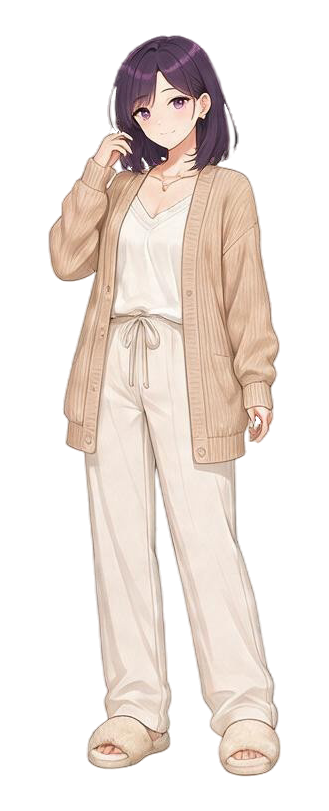
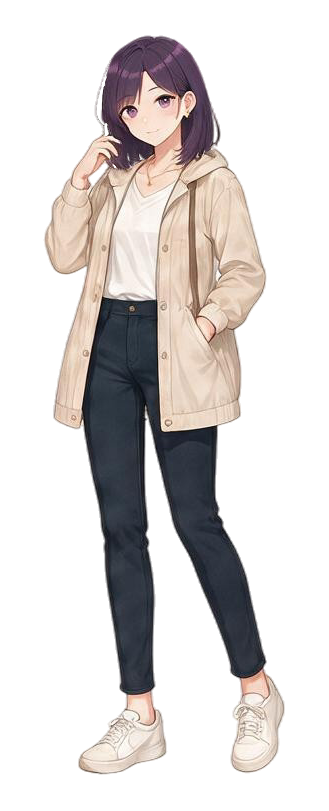
Refine girlfriend wardrobe and dynamic profile

diff --git a/game.js b/game.js
@@ -30,7 +30,7 @@ import { SoundManager } from "./src/sound-manager.mjs?v=5";
 import { recordMemory } from "./src/memory-manager.mjs";
 import { maybeGenerateInitiatedMessage } from "./src/initiated-message-manager.mjs?v=6";
 import { getWrappedFocusIndex } from "./src/ui-manager.mjs";
-import { renderCharacter, resolveCharacterAccessory, resolveCharacterExpression, resolveCharacterOutfit, resolveCharacterPose } from "./src/ui/character-renderer.mjs?v=8";
+import { renderCharacter, resolveCharacterAccessory, resolveCharacterExpression, resolveCharacterOutfit, resolveCharacterPose } from "./src/ui/character-renderer.mjs?v=9";
 import { getBackgroundAsset, getGiftVehicleAsset, getNpcSprite } from "./src/assets/asset-manifest.mjs?v=9";
 import { getAvailableStoryChoices, getStoryScene, resolveStoryChoice, selectNextStoryScene } from "./src/story-manager.mjs?v=6";
 import { STORY_SCENES } from "./src/story-data.mjs";
@@ -38,7 +38,7 @@ import { createDaySnapshot, ensureNightState, formatNightTime, getDailyReport, g
 import { preloadSceneAssets, resolvePhasePresentation, resolveStoryPresentation } from "./src/scene-presentation.mjs";
 import { createEventSceneSequence, createStoryReactionSequence, createStorySceneSequence, createTemptationReactionSequence, createTemptationSceneSequence } from "./src/story-scene-controller.mjs";
 import { runDailyStoryDirector } from "./src/dynamic-story-director.mjs";
-import { HEROINE_OUTFITS, HEROINE_PROFILES, getEquippedHeroineOutfit, isOutfitUnlocked } from "./src/heroine-data.mjs?v=14";
+import { HEROINE_OUTFITS, HEROINE_PROFILES, getEquippedHeroineOutfit, isOutfitUnlocked } from "./src/heroine-data.mjs?v=15";
 import { NPC_SOCIAL_GRAPH } from "./src/npcs-data.mjs";
 import { GIRLFRIEND_JOBS } from "./src/girlfriend-jobs-data.mjs";
 import { generateJob, JOBS } from "./src/jobs-data.mjs?v=6";
@@ -392,7 +392,9 @@ function updateImmersiveCharacter(expressionId="calm") {
   if(npcSprite){character.src=npcSprite;character.dataset.expression=expressionId;$("#vnAccessoryLayer").hidden=true;syncOutfitCharacterMedia(true);return;}
   if(characterId==="girlfriend"&&immersiveScene?.previewOutfitImage){character.src=immersiveScene.previewOutfitImage;character.dataset.expression=expressionId;$("#vnAccessoryLayer").hidden=true;syncOutfitCharacterMedia(true);return;}
   state.currentExpression=expressionId;
-  renderCharacter(character,state,$("#vnAccessoryLayer"),{expressionId,poseId:immersiveScene?.presentation?.poseId,outfitId:immersiveScene?.presentation?.outfitId});
+  const poseId=immersiveScene?.presentation?.poseId,outfitId=immersiveScene?.presentation?.outfitId;
+  renderCharacter(character,state,$("#vnAccessoryLayer"),{expressionId,poseId,outfitId});
+  updatePartnerPortrait(expressionId,poseId,outfitId);
   syncOutfitCharacterMedia(false);
 }
 
@@ -400,13 +402,23 @@ function syncOutfitCharacterMedia(forceImage=false) {
   const image=$("#vnCharacter"),video=$("#vnCharacterVideo"),outfit=state?getEquippedHeroineOutfit(state):null;
   const showVideo=Boolean(!forceImage&&outfit?.characterWearingVideo);
   if(!video||!image)return;
-  video.pause();video.hidden=true;image.hidden=false;
-  if(!showVideo){video.removeAttribute("src");video.load();return;}
-  if(video.getAttribute("src")!==outfit.characterWearingVideo){video.src=outfit.characterWearingVideo;video.load();}
   const showFallback=()=>{video.hidden=true;image.hidden=false;};
+  if(!showVideo){video.pause();showFallback();delete video.dataset.outfitSource;video.removeAttribute("src");video.removeAttribute("poster");video.load();return;}
+  const source=outfit.characterWearingVideo;
+  const revealVideo=()=>{
+    if(video.dataset.outfitSource!==source||video.readyState<2)return;
+    video.hidden=false;image.hidden=true;
+    video.play().catch(showFallback);
+  };
   video.onerror=showFallback;
-  image.hidden=true;video.hidden=false;video.currentTime=0;
-  video.play().catch(showFallback);
+  video.onloadeddata=revealVideo;
+  video.oncanplay=revealVideo;
+  video.poster=image.currentSrc||image.src;
+  if(video.dataset.outfitSource!==source){
+    video.pause();showFallback();video.dataset.outfitSource=source;video.src=source;video.load();return;
+  }
+  if(video.readyState>=2){revealVideo();return;}
+  showFallback();
 }
 
 function updateGiftVehicleLayer(characterId="girlfriend") {
@@ -619,7 +631,38 @@ function finishOnboarding() { state=onboarding.previewState; SaveManager.save(st
 function startGame() { beginOnboarding(); }
 function showGame() { state.actionHistory ??= []; $("#introScreen").classList.add("hidden"); $("#onboardingScreen").classList.add("hidden"); $("#storyIntroScreen").classList.add("hidden"); $("#gameScreen").classList.remove("hidden"); $("#menuButton").classList.remove("hidden"); $("#fullscreenButton").classList.remove("hidden"); $(".story-toolbar").classList.remove("hidden"); $("#tipToolsButton").classList.remove("hidden"); $("#loadButton").classList.add("hidden"); state.settings??={};state.settings.theaterMode=true;localStorage.setItem(THEATER_SETTING_KEY,"true");document.body.classList.add("theater-mode");renderAutoButton();renderFullscreenButtons();render();setTimeout(()=>{restoreEventCheckpoint();if(!state.eventRuntime?.activeEvent){const story=selectNextStoryScene(state);if(isCampaignPrologueStory(story?.id))openStoryScene(story);}},0); }
 function money(value) { return `₩ ${Math.round(value).toLocaleString("ko-KR")}`; }
+function outfitImageUrl(item) { return item?.heroineId==="haeun"&&item?.productImage?`${item.productImage}?v=8`:item?.productImage??""; }
 function withParticle(word, consonantParticle, vowelParticle) { const last=String(word).charCodeAt(String(word).length-1); return `${word}${last>=0xac00&&last<=0xd7a3&&(last-0xac00)%28?consonantParticle:vowelParticle}`; }
+
+const HAEUN_PROFILE_PORTRAITS=Object.freeze({
+  calm:"assets/characters/girlfriend-standing-2d.png",
+  smile:"assets/characters/girlfriend-standing-smile-2d.png",
+  tense:"assets/characters/girlfriend-standing-tense-2d.png",
+  worried:"assets/characters/girlfriend-standing-tense-2d.png",
+  phone:"assets/characters/girlfriend-phone-calm-2d.png",
+  date:"assets/characters/girlfriend-date-outfit-calm-2d.png"
+});
+
+function updatePartnerPortrait(expressionId="calm",poseId=state?.currentPose,outfitId=state?.currentOutfit) {
+  const avatar=$("#partnerAvatar"),partner=state?.partner;
+  if(!avatar||!partner)return;
+  let image=partner.referenceImage??getGirlfriendVisual(partner.visualId).previewImage;
+  if(partner.heroineId==="haeun"){
+    const tone=HAEUN_PROFILE_PORTRAITS[expressionId]?expressionId:"calm";
+    image=["smile","tense","worried"].includes(tone)
+      ? HAEUN_PROFILE_PORTRAITS[tone]
+      : poseId==="phone"
+        ? HAEUN_PROFILE_PORTRAITS.phone
+        : outfitId==="date"
+          ? HAEUN_PROFILE_PORTRAITS.date
+          : HAEUN_PROFILE_PORTRAITS.calm;
+  }
+  const nextSource=`${image}?v=8`;
+  if(avatar.getAttribute("src")!==nextSource)avatar.src=nextSource;
+  avatar.alt=`${partner.name} ${expressionId==="smile"?"미소 짓는":expressionId==="tense"||expressionId==="worried"?"긴장한":poseId==="phone"?"통화 중인":"평온한"} 상반신 사진`;
+  avatar.dataset.expression=expressionId;
+  avatar.dataset.pose=poseId??"standing";
+}
 
 function getLogDay(entry){const match=String(entry?.time??"").match(/^DAY\s+(\d+)(?:\s|$)/);return match?Number(match[1]):null;}
 function getTodayLogs(){return (state?.logs??[]).filter(entry=>getLogDay(entry)===state.day);}
@@ -646,9 +689,8 @@ function render() {
   $("#clockLabel").textContent = phase.time; $("#sceneTitle").textContent = state.day === 1 && state.phase === 0 ? "첫날의 아침" : phase.title;
   const campaignProfileLocked=state.scenario?.enabled===true;
   typeDialogue(phase.text); $("#partnerName").textContent = campaignProfileLocked?`${p.name} · ${p.age}세`:p.name; $("#partnerMbti").textContent = campaignProfileLocked&&!state.scenario.profileUnlocks.includes("haeun-mbti")?"🔒":p.mbti ?? "----"; $("#partnerJob").textContent = campaignProfileLocked&&!state.scenario.profileUnlocks.includes("haeun-career")?"직업 · 🔒":p.career?.name ?? p.job; $("#partnerTrait").textContent = campaignProfileLocked&&!state.scenario.profileUnlocks.includes("haeun-personality")?"성향 · 🔒":`성향 · ${p.archetype}`;
-  $("#partnerAvatar").src = `${p.referenceImage ?? getGirlfriendVisual(p.visualId).previewImage}?v=7`;
-  $("#partnerAvatar").alt = `${p.name} 프로필 사진`;
   const expression = renderCharacter($("#vnCharacter"),state,$("#vnAccessoryLayer"));
+  updatePartnerPortrait(expression.tone,state.currentPose,state.currentOutfit);
   syncOutfitCharacterMedia(false);
   updateGiftVehicleLayer("girlfriend");
   $("#vnExpressionLayer").className=`vn-expression-layer ${expression.tone}`;
@@ -671,7 +713,7 @@ function render() {
   $("#eventLog").innerHTML = todayLogs.length ? todayLogs.slice(-4).reverse().map(l=>`<div class="log-item"><b>${escapeHtml(l.time)}</b><span>${escapeHtml(l.text)}</span></div>`).join("") : `<div class="log-item"><b>DAY ${state.day}</b><span>오늘의 첫 선택을 기다리고 있습니다.</span></div>`;
   const girlfriendOutfits=(state.inventory??[]).map(instance=>({instance,item:getItem(instance.itemId)})).filter(({instance,item})=>instance.owner==="girlfriend"&&item?.category==="heroine-outfit"&&item.heroineId===state.partner.heroineId);
   $("#girlfriendWardrobeCount").textContent=`보유 의상 ${girlfriendOutfits.length}개`;
-  $("#girlfriendWardrobe").innerHTML=girlfriendOutfits.length?girlfriendOutfits.map(({instance,item})=>`<button type="button" class="girlfriend-wardrobe-item ${instance.equipped?"equipped":""}" data-warehouse-outfit="${instance.instanceId}" aria-pressed="${instance.equipped}"><img src="${item.productImage}" alt="${escapeHtml(item.name)}" loading="lazy"><span><b>${escapeHtml(item.name.replace(`${state.partner.name} · `,""))}</b><small>${instance.equipped?"현재 착용 중":"클릭해서 갈아입기"}</small></span></button>`).join(""):`<div class="girlfriend-wardrobe-empty"><span>👗</span><b>구매한 의상이 없습니다.</b><small>상점에서 의상을 선물하면 여기에 보관됩니다.</small></div>`;
+  $("#girlfriendWardrobe").innerHTML=girlfriendOutfits.length?girlfriendOutfits.map(({instance,item})=>`<button type="button" class="girlfriend-wardrobe-item ${instance.equipped?"equipped":""}" data-warehouse-outfit="${instance.instanceId}" aria-pressed="${instance.equipped}"><img src="${outfitImageUrl(item)}" alt="${escapeHtml(item.name)}" loading="lazy"><span><b>${escapeHtml(item.name.replace(`${state.partner.name} · `,""))}</b><small>${instance.equipped?"현재 착용 중":"클릭해서 갈아입기"}</small></span></button>`).join(""):`<div class="girlfriend-wardrobe-empty"><span>👗</span><b>구매한 의상이 없습니다.</b><small>상점에서 의상을 선물하면 여기에 보관됩니다.</small></div>`;
   $("#turnCount").textContent = `${state.phase+1}번째 선택`; $("#nextButton").disabled = state.selected === null;
   $("#nextButton").textContent = state.selected === null ? "행동을 선택해 주세요" : (state.phase === 3 ? "하루 마무리하기 →" : "이 행동으로 결정 →");
   const nextPhase=phases[Math.min(state.phase+1,phases.length-1)];
@@ -1087,7 +1129,7 @@ function renderGameTools() {
   const content=$("#gameToolsContent");
   if(gameToolsTab==="outfits"){
     const equipped=getEquippedHeroineOutfit(state),outfits=HEROINE_OUTFITS.filter(item=>item.heroineId===state.partner.heroineId);
-    content.innerHTML=`<div class="game-tools-intro"><b>${escapeHtml(state.partner.name)} 전체 의상</b><span>잠금·보유 조건과 관계없이 미리 보고 바로 선택할 수 있습니다.</span></div><div class="tools-outfit-grid">${outfits.map((outfit,index)=>`<button type="button" data-tools-outfit="${outfit.id}" class="tools-outfit-card ${equipped?.id===outfit.id?"selected":""}"><img src="${outfit.productImage}" alt="${escapeHtml(outfit.name)}" loading="lazy"><span>${String(index+1).padStart(2,"0")}</span><b>${escapeHtml(outfit.name.replace(`${state.partner.name} · `,""))}</b><small>${money(outfit.price)} · ${equipped?.id===outfit.id?"현재 착용 중":"이 의상 선택"}</small></button>`).join("")}</div>`;
+    content.innerHTML=`<div class="game-tools-intro"><b>${escapeHtml(state.partner.name)} 전체 의상</b><span>잠금·보유 조건과 관계없이 미리 보고 바로 선택할 수 있습니다.</span></div><div class="tools-outfit-grid">${outfits.map((outfit,index)=>`<button type="button" data-tools-outfit="${outfit.id}" class="tools-outfit-card ${equipped?.id===outfit.id?"selected":""}"><img src="${outfitImageUrl(outfit)}" alt="${escapeHtml(outfit.name)}" loading="lazy"><span>${String(index+1).padStart(2,"0")}</span><b>${escapeHtml(outfit.name.replace(`${state.partner.name} · `,""))}</b><small>${money(outfit.price)} · ${equipped?.id===outfit.id?"현재 착용 중":"이 의상 선택"}</small></button>`).join("")}</div>`;
   }else if(gameToolsTab==="events"){
     const groups=SITUATION_EVENTS.reduce((result,event)=>{(result[event.categoryLabel]??=[]).push(event);return result;},{});
     content.innerHTML=`<div class="game-tools-intro"><b>전체 이벤트</b><span>DAY·조건을 무시하고 선택한 이벤트의 장면과 선택지를 실행합니다.</span></div>${Object.entries(groups).map(([label,events])=>`<section class="tools-event-group"><h3>${escapeHtml(label)} <span>${events.length}</span></h3>${events.map(event=>`<button type="button" class="tools-list-row" data-tools-event="${event.id}"><span><b>${escapeHtml(event.title)}</b><small>${escapeHtml(event.id)} · DAY ${event.dayRange?.[0]??"-"}–${event.dayRange?.[1]??"-"}</small></span><em>실행</em></button>`).join("")}</section>`).join("")}`;
@@ -1171,7 +1213,7 @@ function openCharacterManager() {
 function openInventory() {
   const bonuses = getEquipmentBonuses(state);
   const ownerLabel = { player:"내 아이템", gift:"선물 대기", girlfriend:`${state.partner.name} 소유` };
-  const cards = state.inventory.length ? state.inventory.map(instance=>{ const item=getItem(instance.itemId); const girlfriendOutfit=instance.owner==='girlfriend'&&item.category==='heroine-outfit'; const control=instance.owner==='player'?`<button class="equip-button" data-instance="${instance.instanceId}" ${instance.equipped?'disabled':''}>${instance.equipped?'장착 중':'장착'}</button>`:instance.owner==='gift'?`<button class="gift-button" data-gift="${instance.instanceId}">${state.partner.name}에게 선물</button>`:girlfriendOutfit?`<button class="equip-button girlfriend-outfit-button" data-girlfriend-outfit="${instance.instanceId}" ${instance.equipped?'disabled':''}>${instance.equipped?'사용 중':'갈아입기'}</button>`:`<em>${instance.equipped?'사용 중':'보관 중'}</em>`; const visual=item.productImage?`<img class="inventory-product-image" src="${item.productImage}" alt="" loading="lazy">`:`<div class="item-icon" aria-hidden="true">${item.icon}</div>`; return `<div class="inventory-item">${visual}<div><small>${item.brand} · ${item.category}</small><b>${item.name}</b><span>${ownerLabel[instance.owner]} · 매력 +${item.attractivenessBonus} · 패션 +${item.fashionBonus}</span></div>${control}</div>`; }).join("") : `<p class="empty-inventory">아직 보유한 아이템이 없습니다.</p>`;
+  const cards = state.inventory.length ? state.inventory.map(instance=>{ const item=getItem(instance.itemId); const girlfriendOutfit=instance.owner==='girlfriend'&&item.category==='heroine-outfit'; const control=instance.owner==='player'?`<button class="equip-button" data-instance="${instance.instanceId}" ${instance.equipped?'disabled':''}>${instance.equipped?'장착 중':'장착'}</button>`:instance.owner==='gift'?`<button class="gift-button" data-gift="${instance.instanceId}">${state.partner.name}에게 선물</button>`:girlfriendOutfit?`<button class="equip-button girlfriend-outfit-button" data-girlfriend-outfit="${instance.instanceId}" ${instance.equipped?'disabled':''}>${instance.equipped?'사용 중':'갈아입기'}</button>`:`<em>${instance.equipped?'사용 중':'보관 중'}</em>`; const visual=item.productImage?`<img class="inventory-product-image" src="${outfitImageUrl(item)}" alt="" loading="lazy">`:`<div class="item-icon" aria-hidden="true">${item.icon}</div>`; return `<div class="inventory-item">${visual}<div><small>${item.brand} · ${item.category}</small><b>${item.name}</b><span>${ownerLabel[instance.owner]} · 매력 +${item.attractivenessBonus} · 패션 +${item.fashionBonus}</span></div>${control}</div>`; }).join("") : `<p class="empty-inventory">아직 보유한 아이템이 없습니다.</p>`;
   $("#modalContent").innerHTML=`<span class="eyebrow">INVENTORY</span><h2>나의 가방</h2><p>장착 보너스 · 매력 +${bonuses.attractiveness} · 패션 +${bonuses.fashion}</p><div class="inventory-list">${cards}</div>`;
   openModal();
   document.querySelectorAll("[data-instance]:not(:disabled)").forEach(button=>button.addEventListener("click",()=>{ equipItem(state,button.dataset.instance); SaveManager.save(state); openInventory(); }));
@@ -1182,7 +1224,7 @@ function openInventory() {
 function openShop() {
   sound.playBgm("dateShopping",state.day);
   const visibleItems=ITEMS.filter(item=>item.category!=="heroine-outfit" || item.heroineId===state.partner.heroineId);
-  const cards = visibleItems.map(item=>{const heroineOutfit=item.category==="heroine-outfit",unlocked=!heroineOutfit||isOutfitUnlocked(state,item),purchased=(state.inventory??[]).some(entry=>entry.itemId===item.id);const visual=item.productImage?`<img class="shop-product-image" src="${item.productImage}" alt="${escapeHtml(item.name)}" loading="lazy">`:`<div class="item-icon" aria-hidden="true">${item.icon}</div>`;const actions=purchased?`<button class="purchased-button" disabled>구매 완료</button>`:heroineOutfit?`<button data-buy="${item.id}" data-owner="gift" ${unlocked?'':'disabled'}>${unlocked?`${state.partner.name} 선물용`:`DAY ${item.unlockConditions.day} 잠금`}</button>`:`<button data-buy="${item.id}" data-owner="player">내 것</button><button data-buy="${item.id}" data-owner="gift">선물용</button>`;return `<div class="shop-item ${heroineOutfit?'heroine-outfit-card':''} ${purchased?'purchased':''}">${visual}<div><small>${item.brand} · ${item.rarity??`LUX ${item.luxuryLevel}`}</small><b>${escapeHtml(item.name)}</b><span>${escapeHtml((item.styleTags??item.preferenceTags).join(" · "))} · 매력 +${item.attractivenessBonus} · 패션 +${item.fashionBonus}</span><strong>${money(item.price)}</strong></div><div class="shop-actions">${actions}</div></div>`;}).join("");
+  const cards = visibleItems.map(item=>{const heroineOutfit=item.category==="heroine-outfit",unlocked=!heroineOutfit||isOutfitUnlocked(state,item),purchased=(state.inventory??[]).some(entry=>entry.itemId===item.id);const visual=item.productImage?`<img class="shop-product-image" src="${outfitImageUrl(item)}" alt="${escapeHtml(item.name)}" loading="lazy">`:`<div class="item-icon" aria-hidden="true">${item.icon}</div>`;const actions=purchased?`<button class="purchased-button" disabled>구매 완료</button>`:heroineOutfit?`<button data-buy="${item.id}" data-owner="gift" ${unlocked?'':'disabled'}>${unlocked?`${state.partner.name} 선물용`:`DAY ${item.unlockConditions.day} 잠금`}</button>`:`<button data-buy="${item.id}" data-owner="player">내 것</button><button data-buy="${item.id}" data-owner="gift">선물용</button>`;return `<div class="shop-item ${heroineOutfit?'heroine-outfit-card':''} ${purchased?'purchased':''}">${visual}<div><small>${item.brand} · ${item.rarity??`LUX ${item.luxuryLevel}`}</small><b>${escapeHtml(item.name)}</b><span>${escapeHtml((item.styleTags??item.preferenceTags).join(" · "))} · 매력 +${item.attractivenessBonus} · 패션 +${item.fashionBonus}</span><strong>${money(item.price)}</strong></div><div class="shop-actions">${actions}</div></div>`;}).join("");
   $("#modalContent").innerHTML=`<span class="eyebrow">LIFESTYLE SHOP</span><h2>오늘의 상점</h2><p>보유 자산 ${money(state.money)} · ${state.partner.name} 전용 의상 10종이 관계 진행에 따라 해금됩니다.</p><div class="shop-list">${cards}</div>`;
   openModal();
   if (state.job?.id === "used-car-dealer") $("#modalContent").insertAdjacentHTML("afterbegin", `<p class="career-tip"><b>딜러 네트워크 적용:</b> ${escapeHtml(state.partner.name)}에게 선물할 차량은 결제 시 12% 자동 할인됩니다.</p>`);
@@ -1193,7 +1235,7 @@ function openPurchaseConfirmation(itemId, owner) {
   const item=getItem(itemId),quote=getPurchaseQuote(state,item,owner);
   if(!item||!quote){toast("구매 정보를 확인할 수 없습니다.");return;}
   const target=owner==="gift"?`${state.partner.name} 선물용`:"내 것";
-  const visual=item.productImage?`<img class="purchase-confirm-image" src="${item.productImage}" alt="${escapeHtml(item.name)}">`:`<div class="purchase-confirm-icon" aria-hidden="true">${item.icon}</div>`;
+  const visual=item.productImage?`<img class="purchase-confirm-image" src="${outfitImageUrl(item)}" alt="${escapeHtml(item.name)}">`:`<div class="purchase-confirm-icon" aria-hidden="true">${item.icon}</div>`;
   $("#modalContent").innerHTML=`<span class="eyebrow">PURCHASE CONFIRM</span><h2>구매 확인</h2><div class="purchase-confirm-item">${visual}<div><small>${escapeHtml(item.brand)} · ${escapeHtml(target)}</small><b>${escapeHtml(item.name)}</b><strong>${money(quote.price)}</strong></div></div><p class="venue-visit-question">구매하시겠습니까?</p><div class="venue-confirm-actions"><button id="purchaseCancel" type="button">아니오</button><button id="purchaseConfirm" class="primary-button" type="button">예</button></div>`;
   openModal();
   $("#purchaseCancel").addEventListener("click",openShop);

diff --git a/styles.css b/styles.css
@@ -501,11 +501,12 @@ body.ui-classic-mode{overflow:auto;background:var(--bg)}
   box-shadow:inset 0 0 0 1px #ffffff8c,0 14px 32px #7046582e;
 }
 .partner-avatar img{
-  object-fit:contain;
-  object-position:50% 0;
-  transform:scale(1.58);
-  transform-origin:50% 3%;
+  object-fit:cover;
+  object-position:50% 4%;
+  transform:scale(1.7);
+  transform-origin:50% 4%;
   filter:drop-shadow(0 10px 10px #593b4f38);
+  transition:opacity .18s ease;
 }
 
 /* Tablet landscape: preserve the footer controls inside the visible viewport. */
@@ -689,9 +690,11 @@ body.ui-classic-mode{overflow:auto;background:var(--bg)}
 
 /* Compact girlfriend outfit warehouse below the main scene. */
 .ui-classic-mode .classic-mode .girlfriend-warehouse-panel{
-  flex:0 0 auto;
+  display:flex;
+  flex:1 1 auto;
+  flex-direction:column;
   box-sizing:border-box;
-  height:190px;
+  min-height:190px;
   margin-top:12px;
   padding:10px 16px 9px;
   overflow:hidden;
@@ -704,7 +707,7 @@ body.ui-classic-mode{overflow:auto;background:var(--bg)}
 .girlfriend-wardrobe-item img{display:block;width:58px;height:88px;object-fit:contain;object-position:center bottom;border-radius:9px;background:#eee8ec}
 .girlfriend-wardrobe-item>span{display:grid;gap:7px;min-width:0}.girlfriend-wardrobe-item b{display:-webkit-box;overflow:hidden;font-size:10px;line-height:1.35;-webkit-box-orient:vertical;-webkit-line-clamp:2}.girlfriend-wardrobe-item small{color:#9a8993;font-size:8px;line-height:1.35}.girlfriend-wardrobe-item.equipped small{color:#c33f68;font-weight:700}
 .girlfriend-wardrobe-empty{display:grid;grid-template-columns:32px 1fr;grid-template-rows:auto auto;align-content:center;column-gap:9px;width:100%;min-height:88px;padding:0 12px;border:1px dashed #dfd3da;border-radius:13px;color:#8d7f88}.girlfriend-wardrobe-empty>span{grid-row:1/3;font-size:24px}.girlfriend-wardrobe-empty>b{font-size:10px}.girlfriend-wardrobe-empty>small{font-size:8px}
-.compact-daily-record{margin-top:2px;border-top:1px solid var(--line)}.compact-daily-record summary{display:flex;align-items:center;justify-content:space-between;padding:6px 2px 0;list-style:none;cursor:pointer}.compact-daily-record summary::-webkit-details-marker{display:none}.compact-daily-record summary b{font-size:9px}.compact-daily-record summary span{color:var(--muted);font-size:8px}.compact-daily-record .event-log{position:absolute;z-index:9;right:16px;bottom:32px;left:16px;max-height:92px;min-height:0;padding:7px 10px;overflow:auto;border:1px solid var(--line);border-radius:11px;background:#fff;box-shadow:0 12px 28px #35263422}.girlfriend-warehouse-panel{position:relative}
+.compact-daily-record{margin-top:auto;border-top:1px solid var(--line)}.compact-daily-record summary{display:flex;align-items:center;justify-content:space-between;padding:6px 2px 0;list-style:none;cursor:pointer}.compact-daily-record summary::-webkit-details-marker{display:none}.compact-daily-record summary b{font-size:9px}.compact-daily-record summary span{color:var(--muted);font-size:8px}.compact-daily-record .event-log{position:absolute;z-index:9;right:16px;bottom:32px;left:16px;max-height:92px;min-height:0;padding:7px 10px;overflow:auto;border:1px solid var(--line);border-radius:11px;background:#fff;box-shadow:0 12px 28px #35263422}.girlfriend-warehouse-panel{position:relative}
 
 @media(min-width:761px) and (max-width:1100px){
   .theater-mode .topbar .brand strong,
@@ -717,7 +720,7 @@ body.ui-classic-mode{overflow:auto;background:var(--bg)}
 
 @media(max-width:760px){
   .game-tools-trigger{bottom:72px}
-  .ui-classic-mode .classic-mode .girlfriend-warehouse-panel{height:176px;margin:8px 10px;padding:9px 10px}
+  .ui-classic-mode .classic-mode .girlfriend-warehouse-panel{min-height:176px;margin:8px 10px;padding:9px 10px}
   .girlfriend-wardrobe-item{grid-template-columns:52px 102px;flex-basis:162px;height:94px}.girlfriend-wardrobe-item img{width:52px;height:80px}
 }
 

diff --git a/index.html b/index.html
@@ -10,13 +10,12 @@
   <link rel="preconnect" href="https://fonts.gstatic.com" crossorigin>
   <link href="https://fonts.googleapis.com/css2?family=Gowun+Dodum&family=Outfit:wght@500;600;700&display=swap" rel="stylesheet">
   <link rel="stylesheet" href="https://cdn.jsdelivr.net/npm/@fortawesome/fontawesome-free@6.7.2/css/all.min.css">
-  <link rel="stylesheet" href="styles.css?v=54">
+  <link rel="stylesheet" href="styles.css?v=57">
   <link rel="preload" as="image" href="assets/accessories/lavender-ribbon-star-pin.png">
   <link rel="preload" as="image" href="assets/characters/girlfriend-date-outfit-calm-2d.png">
   <link rel="preload" as="image" href="assets/characters/girlfriend-phone-calm-2d.png">
   <link rel="preload" as="image" href="assets/characters/girlfriend-standing-smile-2d.png">
   <link rel="preload" as="image" href="assets/characters/girlfriend-standing-tense-2d.png">
-  <link rel="preload" as="image" href="assets/characters/girlfriend-standing-worried-2d.png">
   <link rel="preload" as="image" href="assets/npcs/female-coworker-2d.png">
   <link rel="preload" as="image" href="assets/npcs/male-rival-2d.png">
 </head>
@@ -138,7 +137,7 @@
           </div>
         </div>
         <div class="timeline girlfriend-warehouse-panel panel">
-          <div class="section-title warehouse-title"><h3>여친 아이템 창고</h3><span id="girlfriendWardrobeCount">보유 의상 0개</span></div>
+          <div class="section-title warehouse-title"><h3>여친 아이템 보관함</h3><span id="girlfriendWardrobeCount">보유 의상 0개</span></div>
           <div id="girlfriendWardrobe" class="girlfriend-wardrobe" aria-label="구매한 여자친구 의상" aria-live="polite"></div>
           <details class="compact-daily-record">
             <summary><b>오늘의 기록</b><span id="turnCount">첫 번째 선택</span></summary>
@@ -239,6 +238,6 @@
     </article>
   </section>
   <div id="toast" class="toast"></div>
-  <script type="module" src="game.js?v=77"></script>
+  <script type="module" src="game.js?v=80"></script>
 </body>
 </html>
